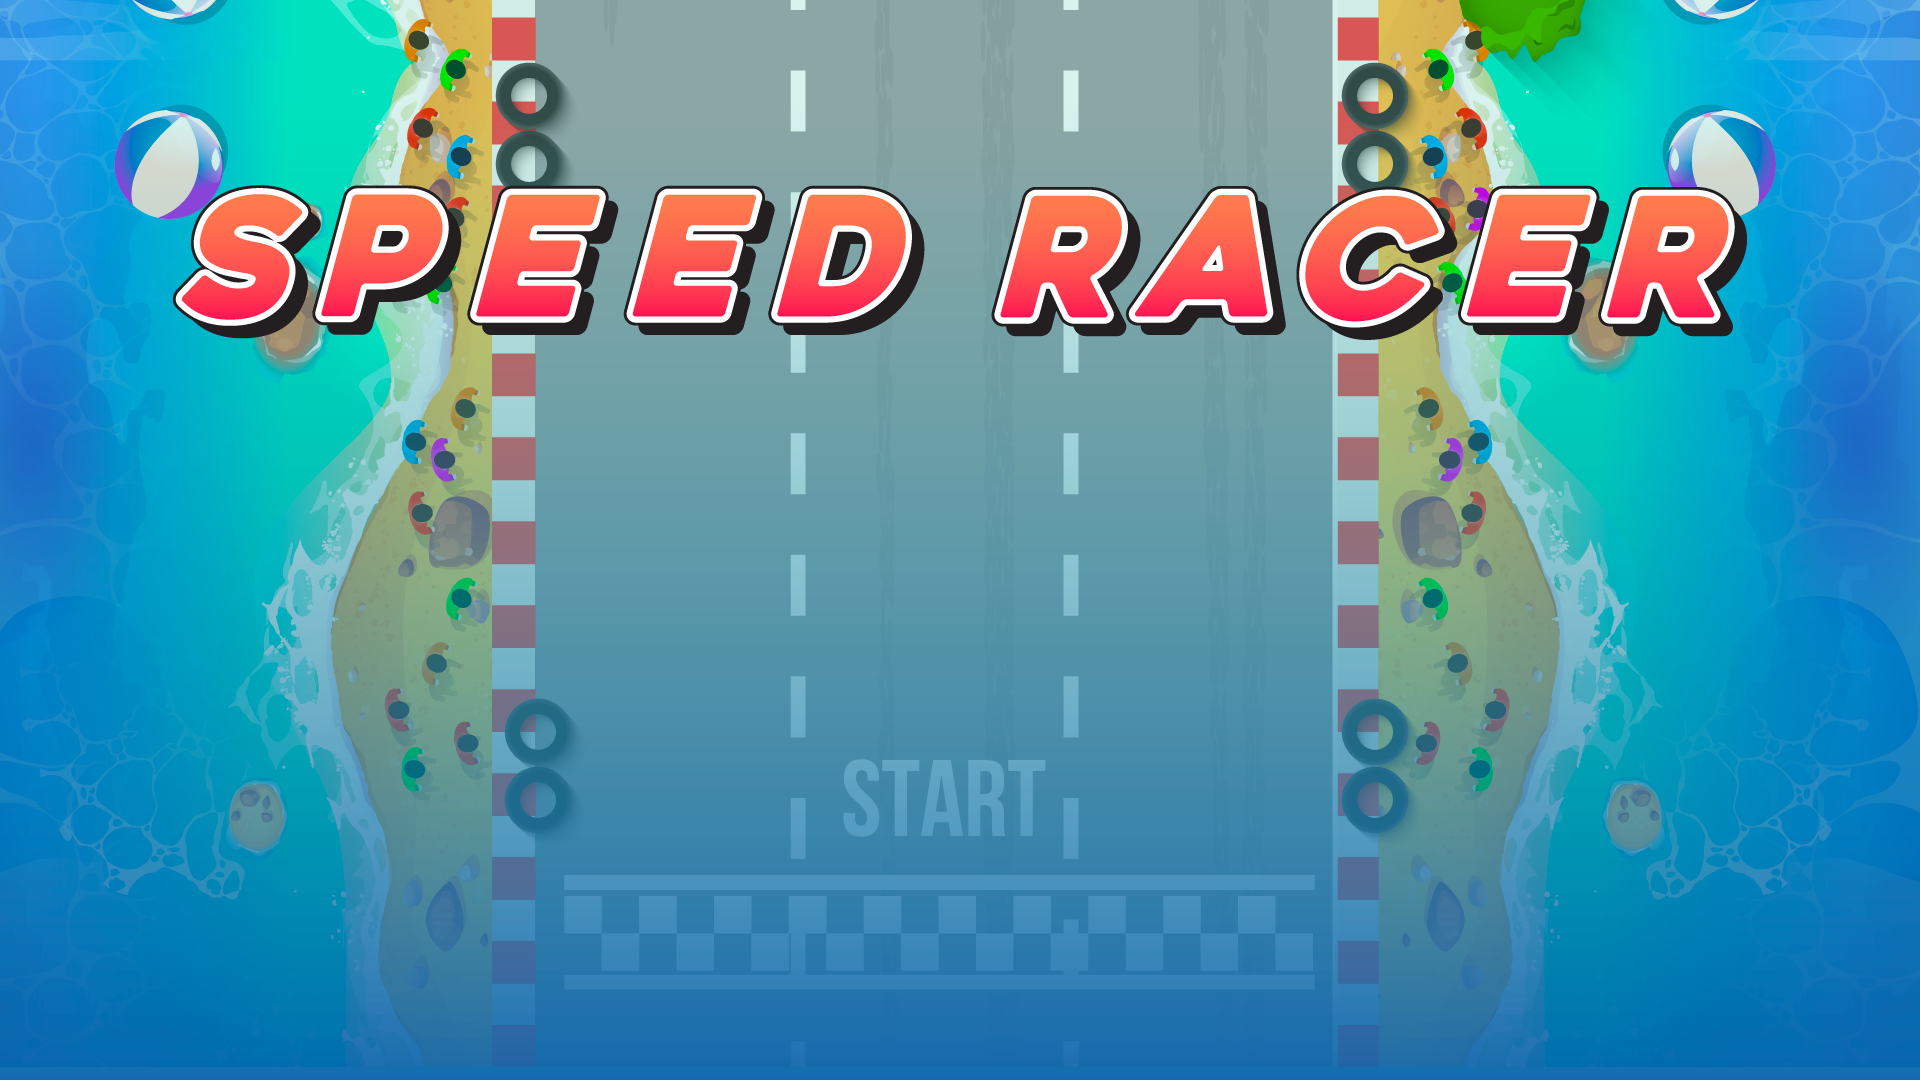
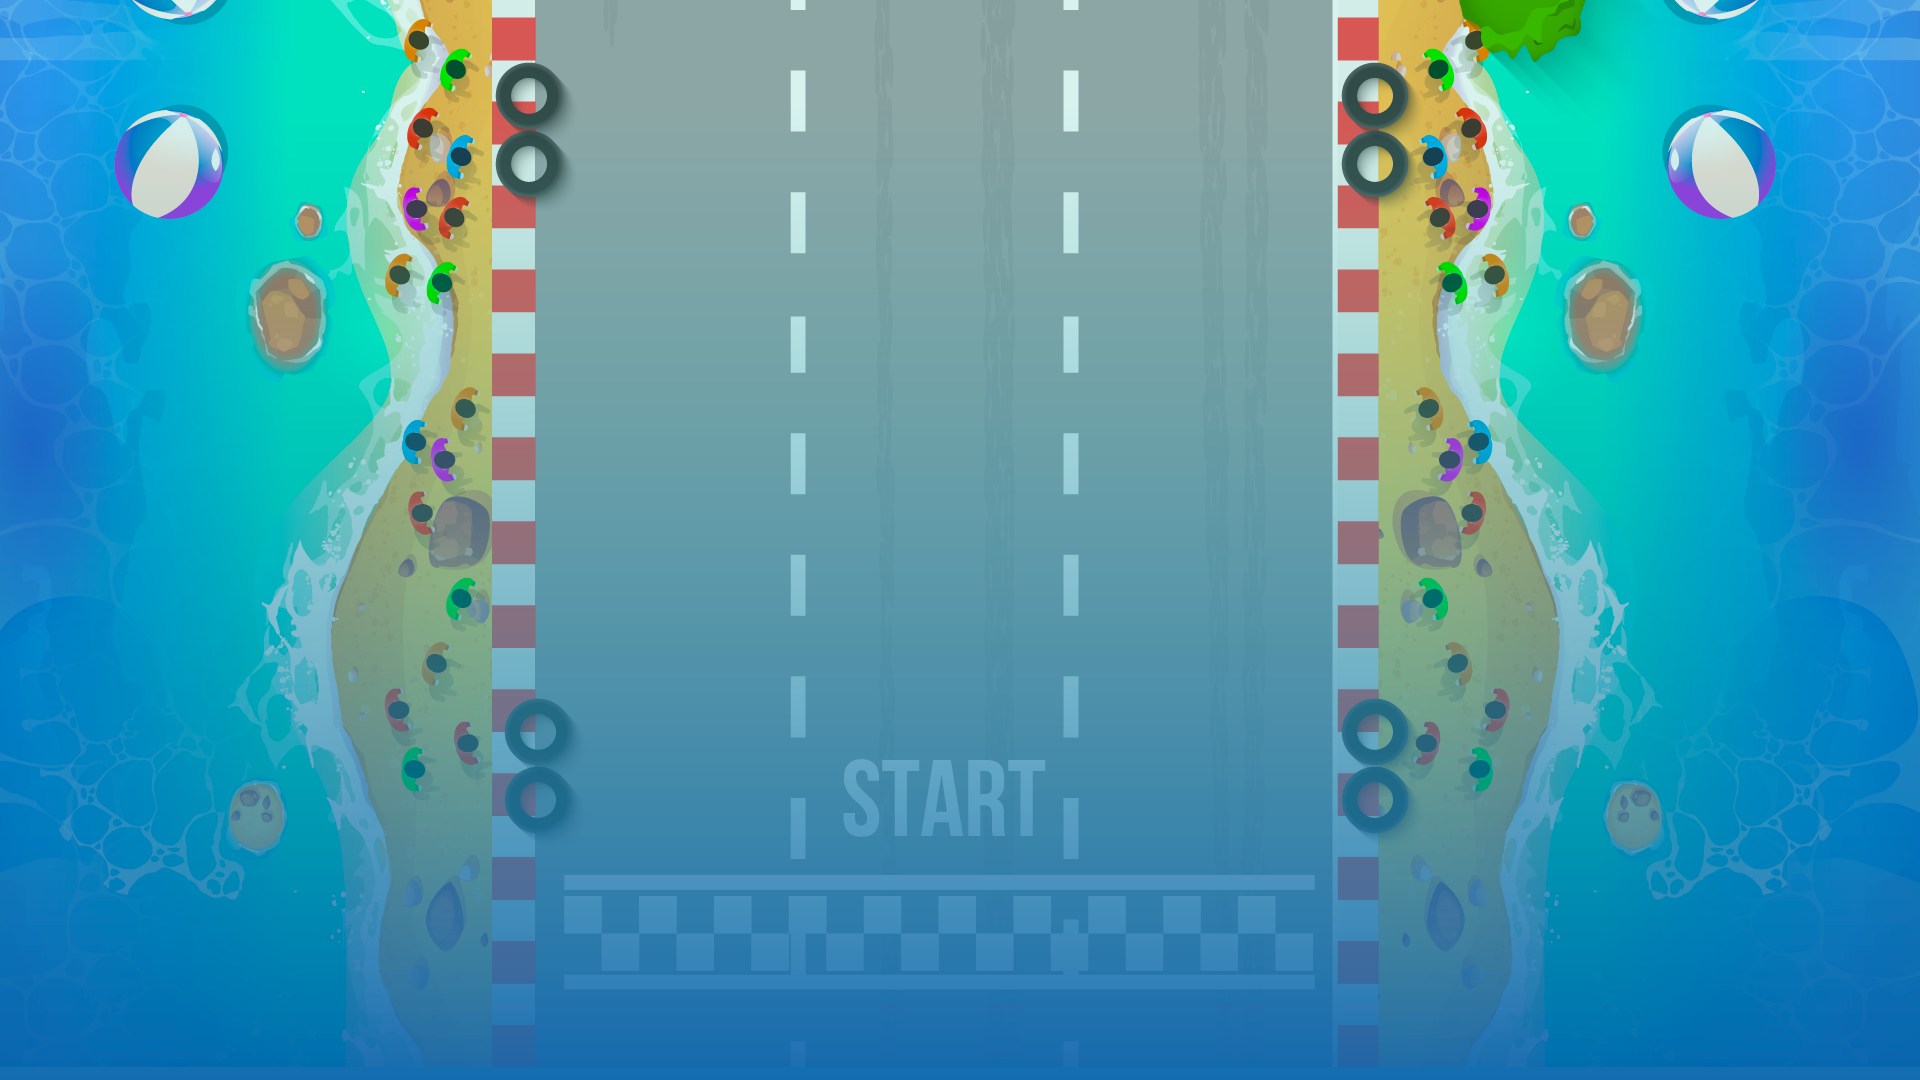
Player registration is done

Changed region(s): [[0.0938, 0.1528, 0.9062, 0.3361]]

diff --git a/js/Form.js b/js/Form.js
@@ -2,18 +2,21 @@ class Form {
   constructor() {
     this.input = createInput("").attribute("placeholder", "Enter your name");
     this.playButton = createButton("Play");
+    this.titleImg = createImg("./assets/title.png", "game title");
     this.greeting = createElement("h2");
 
     // this.reset = createButton("Reset");
   }
 
   setElementsPosition() {
-    this.input.position(width / 2 - 100, height / 2 - 80);
-    this.playButton.position(width / 2 - 90, height / 2 - 30);
-    this.greeting.position(width / 2 - 300, height / 2 - 200);
+    this.titleImg.position(120, 160);
+    this.input.position(width / 2 - 110, height / 2 - 80);
+    this.playButton.position(width / 2 - 90, height / 2 - 20);
+    this.greeting.position(width / 2 - 300, height / 2 - 100);
   }
 
   setElementsStyle() {
+    this.titleImg.class("gameTitle");
     this.input.class("customInput");
     this.playButton.class("customButton");
     this.greeting.class("greeting");
@@ -31,7 +34,7 @@ class Form {
       this.playButton.hide();
       var message = `
       Hello ${this.input.value()}
-      </br></br>wait for another player to join...`;
+      </br>wait for another player to join...`;
       this.greeting.html(message);
       playerCount += 1;
       player.name = this.input.value();

diff --git a/style.css b/style.css
@@ -14,10 +14,8 @@ canvas {
 }
 
 .gameTitle{
-  font-size: 80px;
-  color: #FFFF;
-  font-family: vollkorn;
-  text-align: center;
+  width: 85%;
+  height: 160px;
 }
 .gameTitleAfterEffect{
   font-size: 50px;
@@ -27,7 +25,7 @@ canvas {
 }
 .greeting{
   font-size: 40px;
-  color: red;
+  color: white;
   font-family: vollkorn;
   text-align: center;
 }
@@ -35,26 +33,30 @@ canvas {
 .customInput {
   width:200px;
   height:30px;
-  border: 1px solid black;
+  border: 3px solid white;
   border-radius: 5px;
   padding: 5px;
-  background-color: white;
+  background-color:transparent;
   font-size: 20px;
   outline:none;
+  color:white;
   font-family: vollkorn;
   text-align: center;
 }
 
+::placeholder { /* Chrome, Firefox, Opera, Safari 10.1+ */
+  color: white;
+  opacity: 0.5; /* Firefox */
+}
 
 .customButton {
   width:180px;
   height:50px;
   background-color: #fea834;
-  border: none;
-  color: #000;
+  border: 3px solid white;
+  color: #FFFF;
   font-weight:bold;
-  padding: 15px 32px;
-  border-radius: 15px;
+  border-radius: 10px;
   margin-bottom:100px;
   text-align: center;
   text-decoration: none;
